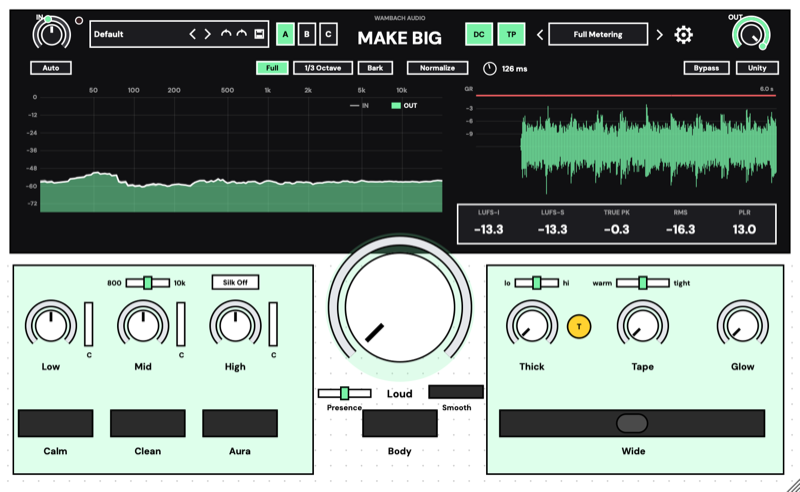
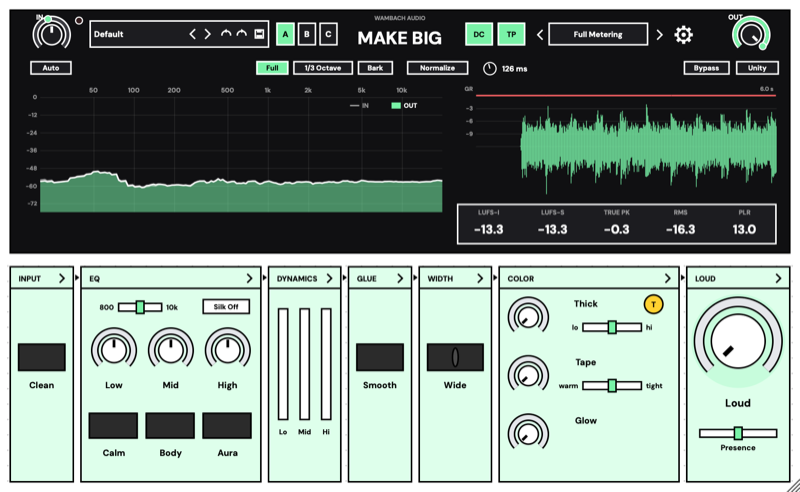
Make Big 2.0.0: new description and screenshot

diff --git a/README.md b/README.md
@@ -47,8 +47,9 @@ the same frequencies.
 
 ## Make Big
 
-A one-window mastering processor: tone, dynamics, saturation, width and
-loudness, with full metering.
+An all-in-one mastering processor. Seven modules in signal order (Input,
+EQ, Dynamics, Glue, Width, Color and Loud) with full metering, plus a live
+view of the reactive EQ on the EQ page.
 
 <img src="images/make-big.png" alt="Make Big" width="600">
 
